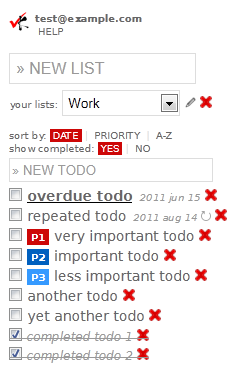
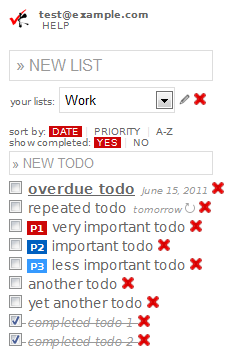
added humanized dates better year handling for repeated events

diff --git a/templates/todo/todo_item.html b/templates/todo/todo_item.html
@@ -1,4 +1,5 @@
+{% load humanize %}
 <span class="todo_priority todo_priority_{{ todo.priority }}">{% if todo.priority < 4%}&nbsp;P{{ todo.priority }}&nbsp;{% endif %}</span>
 <span class="todo_description {% if todo.is_overdue %}overdue{% endif %}{% if todo.is_today%} today{% endif %}"><a href="#">{{ todo.description }}</a></span>
-<span class="small todo_list_name">{% if todo.due_date %}&nbsp;{{todo.due_date|date:'Y b d'}}{% endif %}{% if todo.repeat_type %}&nbsp;<img alt="repeat" src="{{MEDIA_URL}}img/repeat.png" />{% endif %}{% if show_list %}&nbsp;[{{todo.list.name}}]{% endif %}</span>
+<span class="small todo_list_name">{% if todo.due_date %}&nbsp;{{todo.due_date|naturalday}}{% endif %}{% if todo.repeat_type %}&nbsp;<img alt="repeat" src="{{MEDIA_URL}}img/repeat.png" />{% endif %}{% if show_list %}&nbsp;[{{todo.list.name}}]{% endif %}</span>
 <span class="no_background" ><a href="#" class="todo_delete" id="todo_delete_{{todo.id}}"><img alt="delete" src="{{MEDIA_URL}}img/cancel.png" /></a>{% if todo.deleted %}&nbsp;<a href="#" class="todo_undelete" id="todo_undelete_{{todo.id}}"><img alt="undelete" src="{{MEDIA_URL}}img/undo.png" /></a>{% endif %}</span>

diff --git a/todo/models.py b/todo/models.py
@@ -138,7 +138,7 @@ class Todo(models.Model):
                 elif self.repeat_type=="m":
                     self.due_date = today + relativedelta(months=self.repeat_every)
                 elif self.repeat_type=="y":
-                    self.due_date = date(year=today.year+repeat_every, month=today.month, day=today.day)
+                    self.due_date = today + relativedelta(years=self.repeat_every)
             else:
                 self.complete = True
         

diff --git a/settings.py b/settings.py
@@ -26,6 +26,7 @@ INSTALLED_APPS = (
 
     # djangoappengine should come last, so it can override a few manage.py commands
     'djangoappengine',
+    'django.contrib.humanize',
 )
 
 MIDDLEWARE_CLASSES = (

diff --git a/app_version.py b/app_version.py
@@ -16,6 +16,6 @@
 
 APP_VERSION_MAJOR=1
 APP_VERSION_MINOR=20
-APP_VERSION_FIX=2
+APP_VERSION_FIX=5
 
 APP_VERSION="%s.%s.%s" % (APP_VERSION_MAJOR, APP_VERSION_MINOR, APP_VERSION_FIX)
